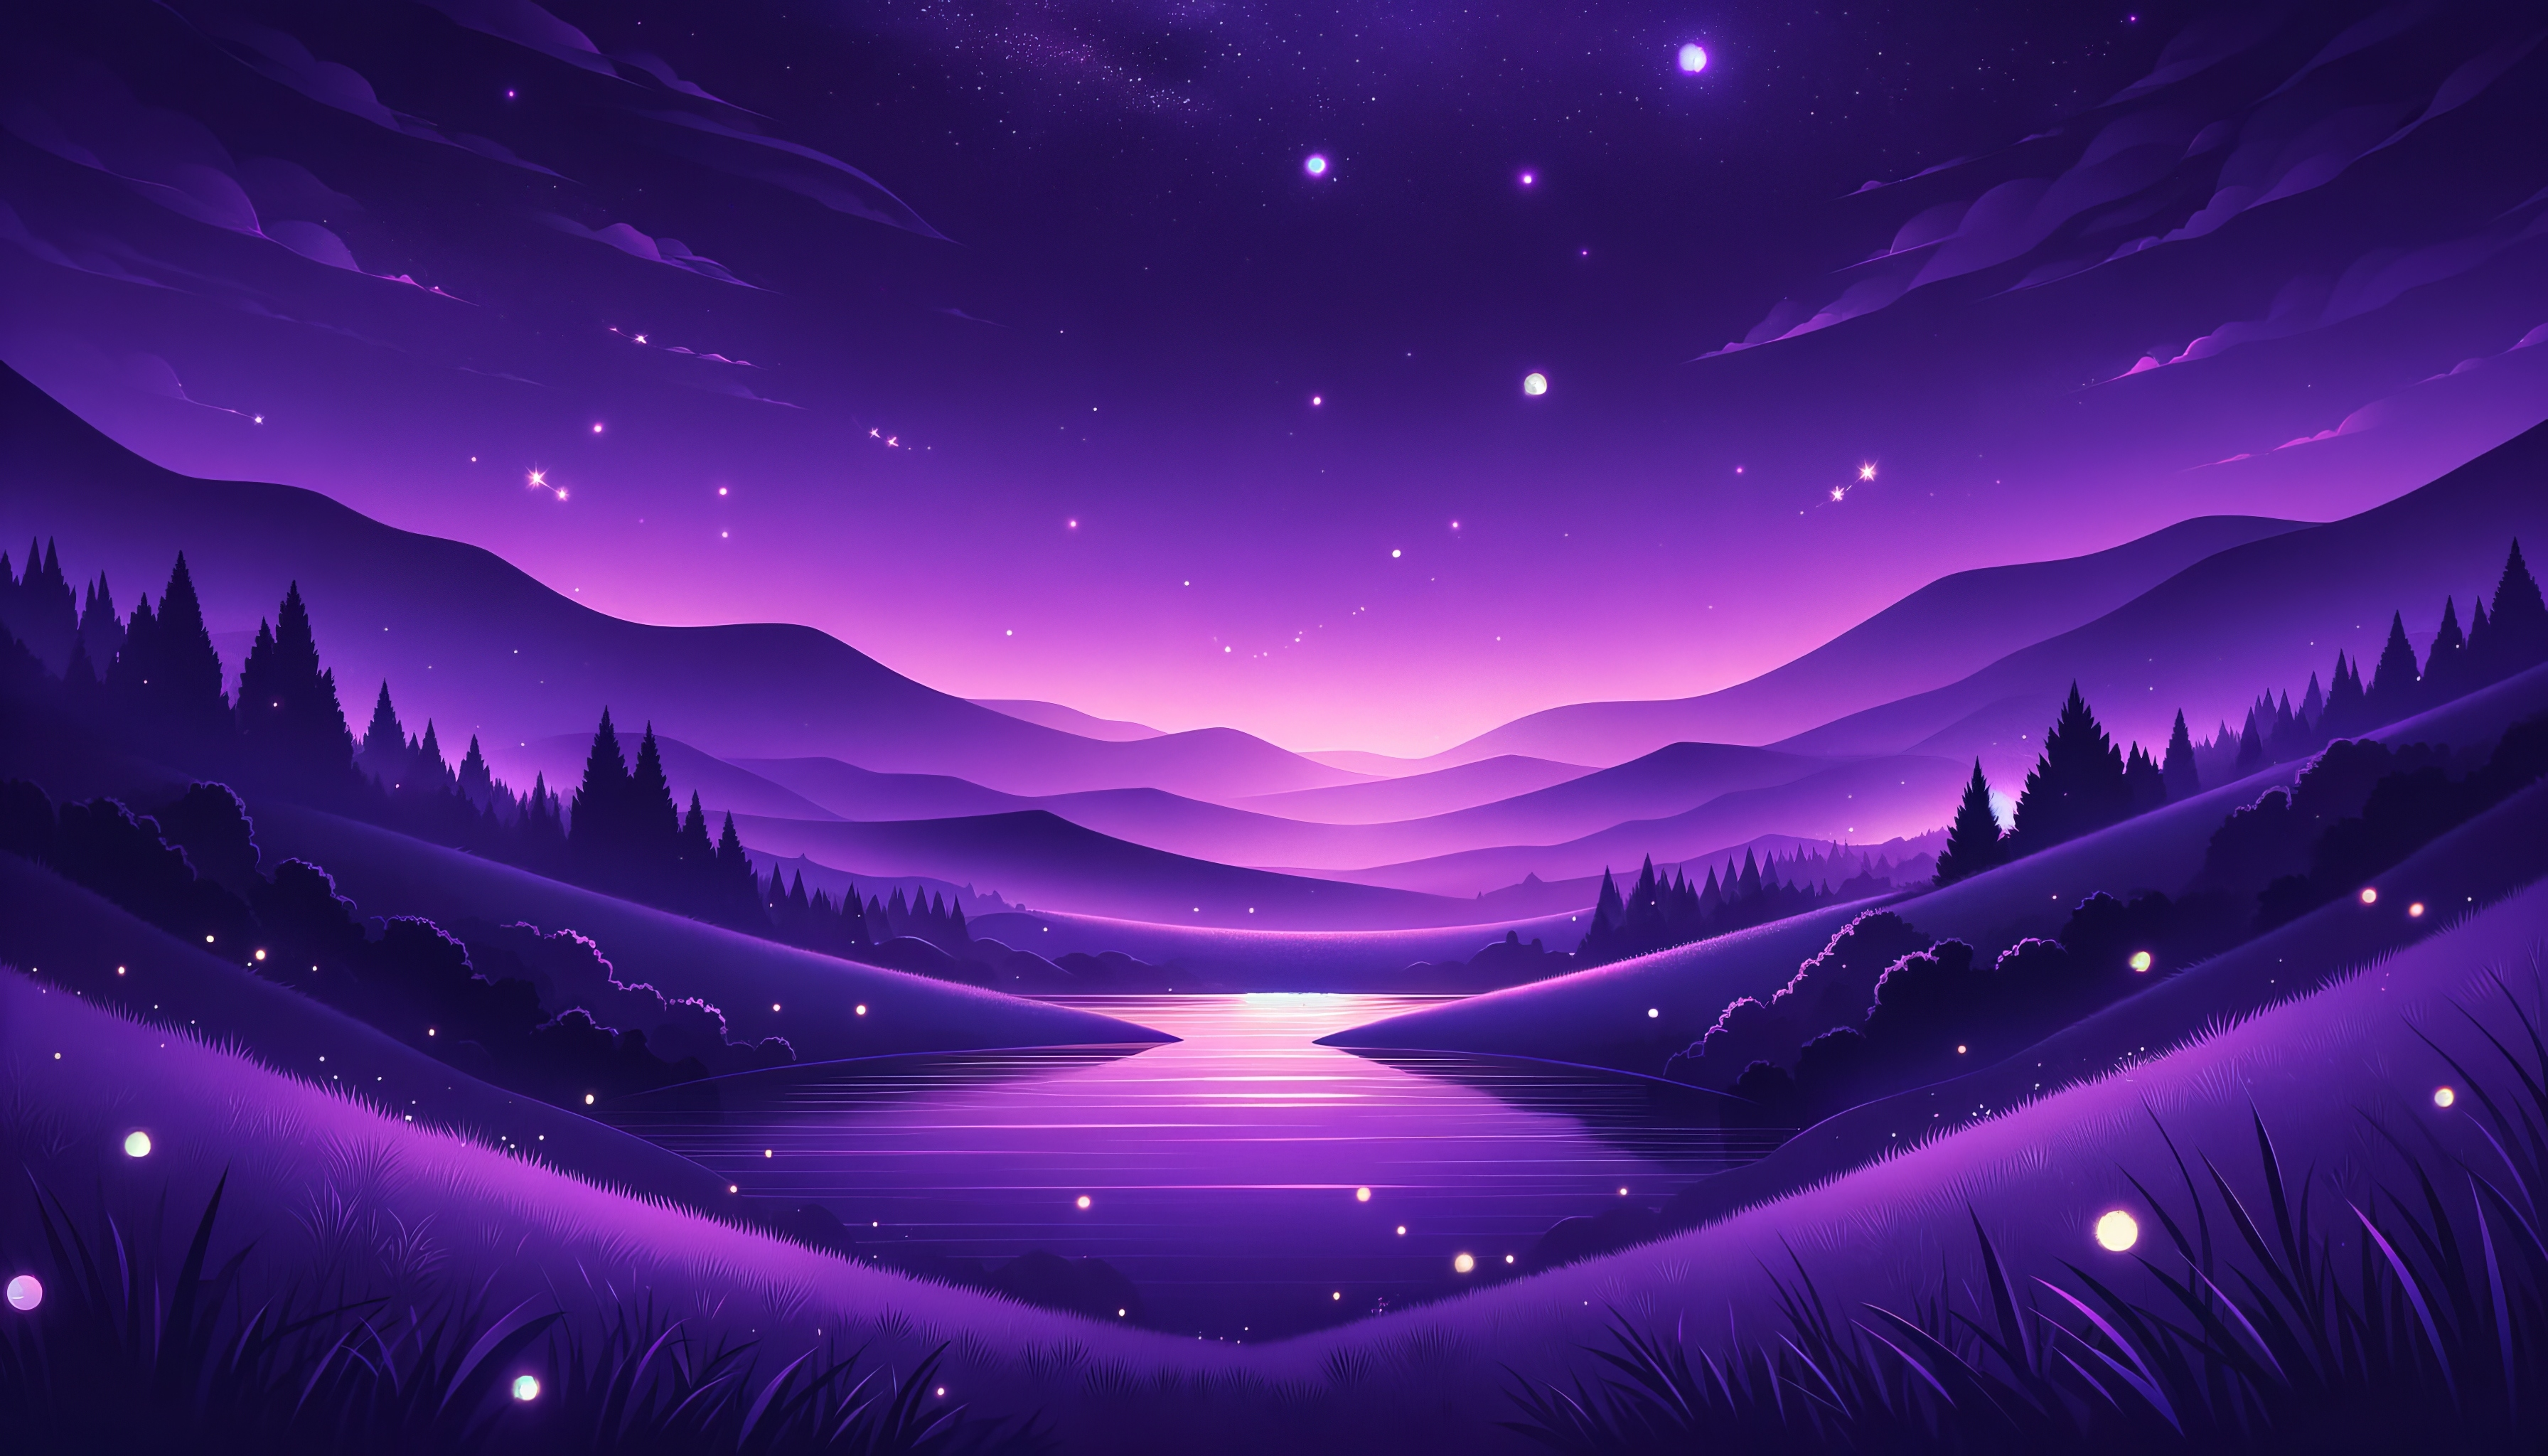
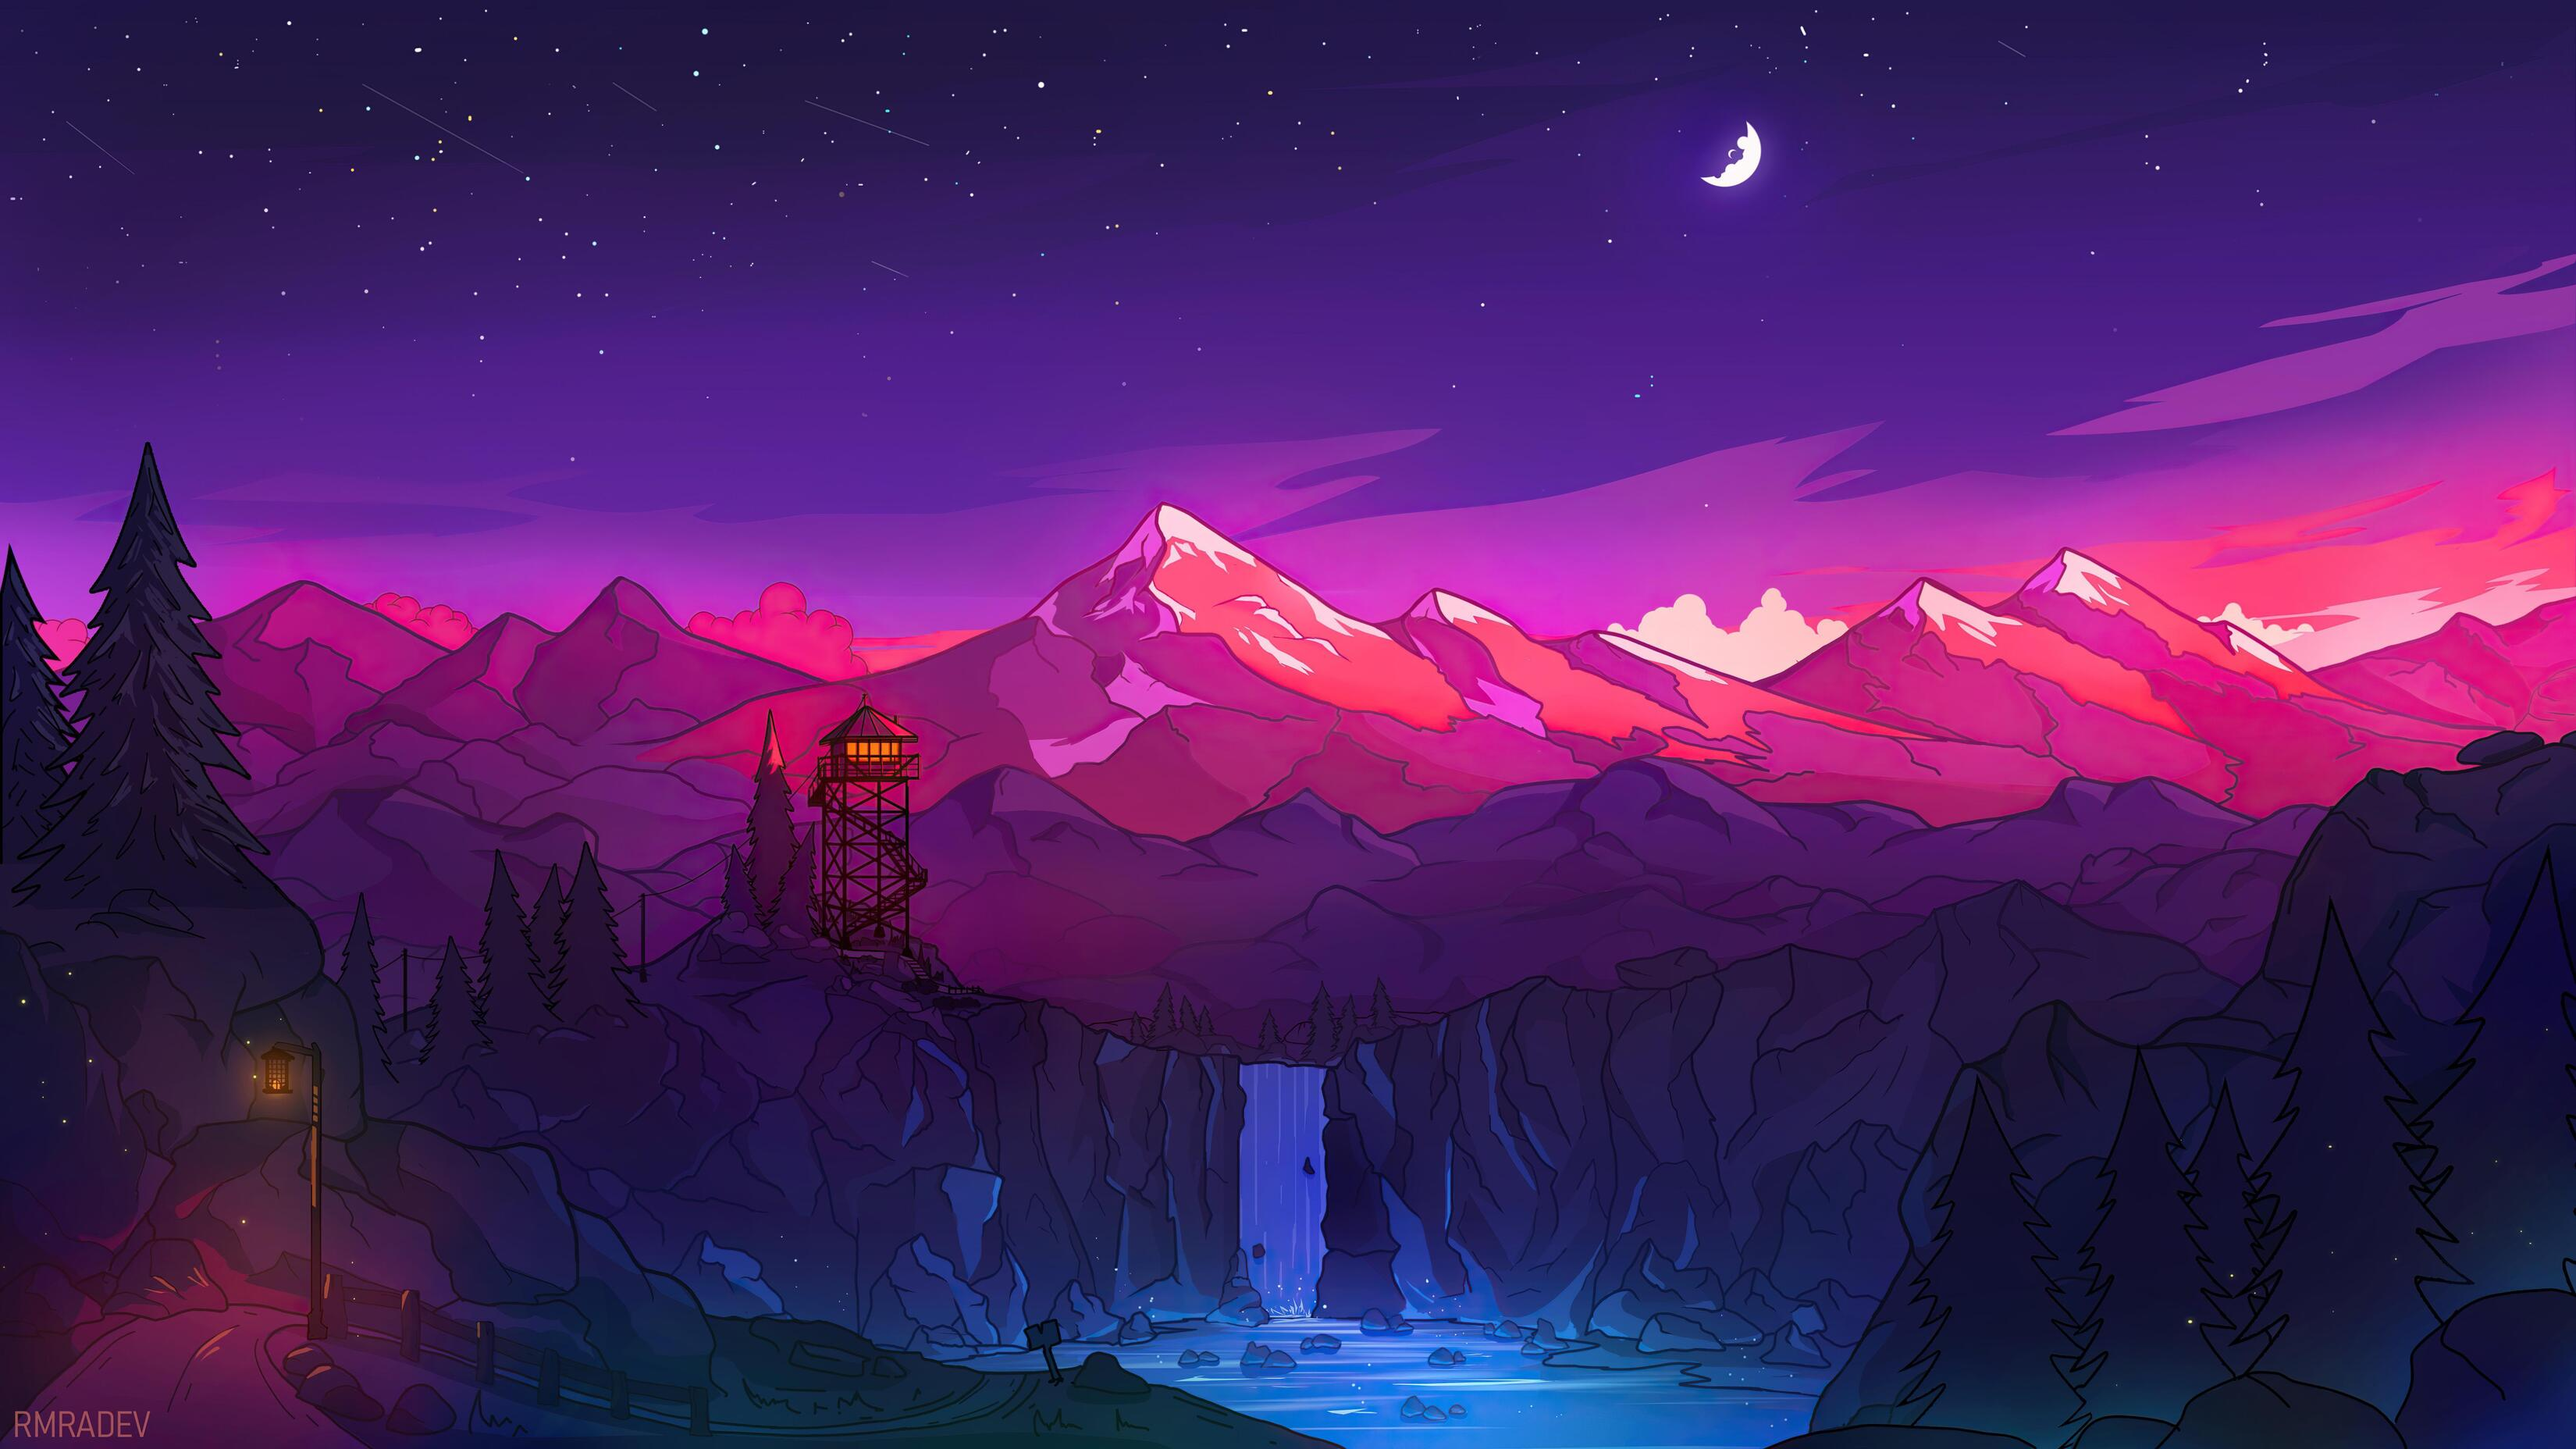
working this

diff --git a/Components/PageComponents/Aboutme.tsx b/Components/PageComponents/Aboutme.tsx
@@ -1,18 +1,28 @@
 
 
-import { image, Name, selfRole, shortBio } from '@/AbhiData/data'
+import { image, Name, selfRole, shortBio,  } from '@/AbhiData/data'
+import {NameShort} from '@/AbhiData/data'
 import React from 'react'
 import pfp from '@/assets/pfp.jpg'
+import Image from 'next/image'
 
 function Aboutme() {
   return (
     <>
     <div className="flex flex-row items-start mt-10 mb-10 gap-4  ">
         <div>
-        <img src="https://i.pinimg.com/736x/c3/55/b3/c355b396e473a548fbf8d67fee33495e.jpg" alt="" className='w-32 h-32 mx-auto border rounded-2xl border-none' />
+        <img src="https://s3.amazonaws.com/comicgeeks/characters/avatars/55679.jpg?t=1726374087" alt="" className='w-32 h-32 mx-auto border rounded-2xl border-none' />
+        {/* <Image
+      src="/assets/profile.jpeg"
+      alt="Profile"
+      width={300}
+      height={300}
+      className=mx-auto border rounded-2xl border-none'
+      priority
+    /> */}
         </div>
         <div className="flex flex-col items-start">
-            <h1 className="text-2xl text-center mt-2 px-0.5 font-bold">{Name}</h1>
+            <h1 className="text-5xl text-center mt-2 px-0.5 font-bold">hi, iam {NameShort}</h1>
             <h2 className="text-xl text-center text-white mt-2 px-0.5">{selfRole}</h2>
             <p className="text-center text-white mt-1">{shortBio}</p>  
         </div>

diff --git a/AbhiData/data.ts b/AbhiData/data.ts
@@ -1,6 +1,8 @@
 
 const image = "/Assets/pfp.jpg"
 
+const NameShort = "Abhi"
+
 const Name = "Abhinav Reddy Rajidi"
 
 const selfRole = "Software Developer"
@@ -43,4 +45,4 @@ const SocialLinks = [
 ]
 
 
-export {image,Name,selfRole,shortBio,About,SocialLinks}
+export {image,Name,selfRole,shortBio,About,SocialLinks,NameShort}

diff --git a/app/page.tsx b/app/page.tsx
@@ -25,9 +25,9 @@ export default function Home() {
 
   return (
     <>
-      <div className="min-h-screen p-3.5 bg-[url(https://cdn.wallpapersafari.com/87/23/X3lUA5.jpg)] bg-cover bg-center bg-no-repeat bg-fixed">
+      <div className="min-h-screen p-3.5 bg-black bg-cover bg-center bg-no-repeat bg-fixed">
         <Nav />
-        <Player/>
+        {/* <Player/> */}
         <main className="max-w-5xl mx-auto pb-24">
           <HomePage />
         </main>